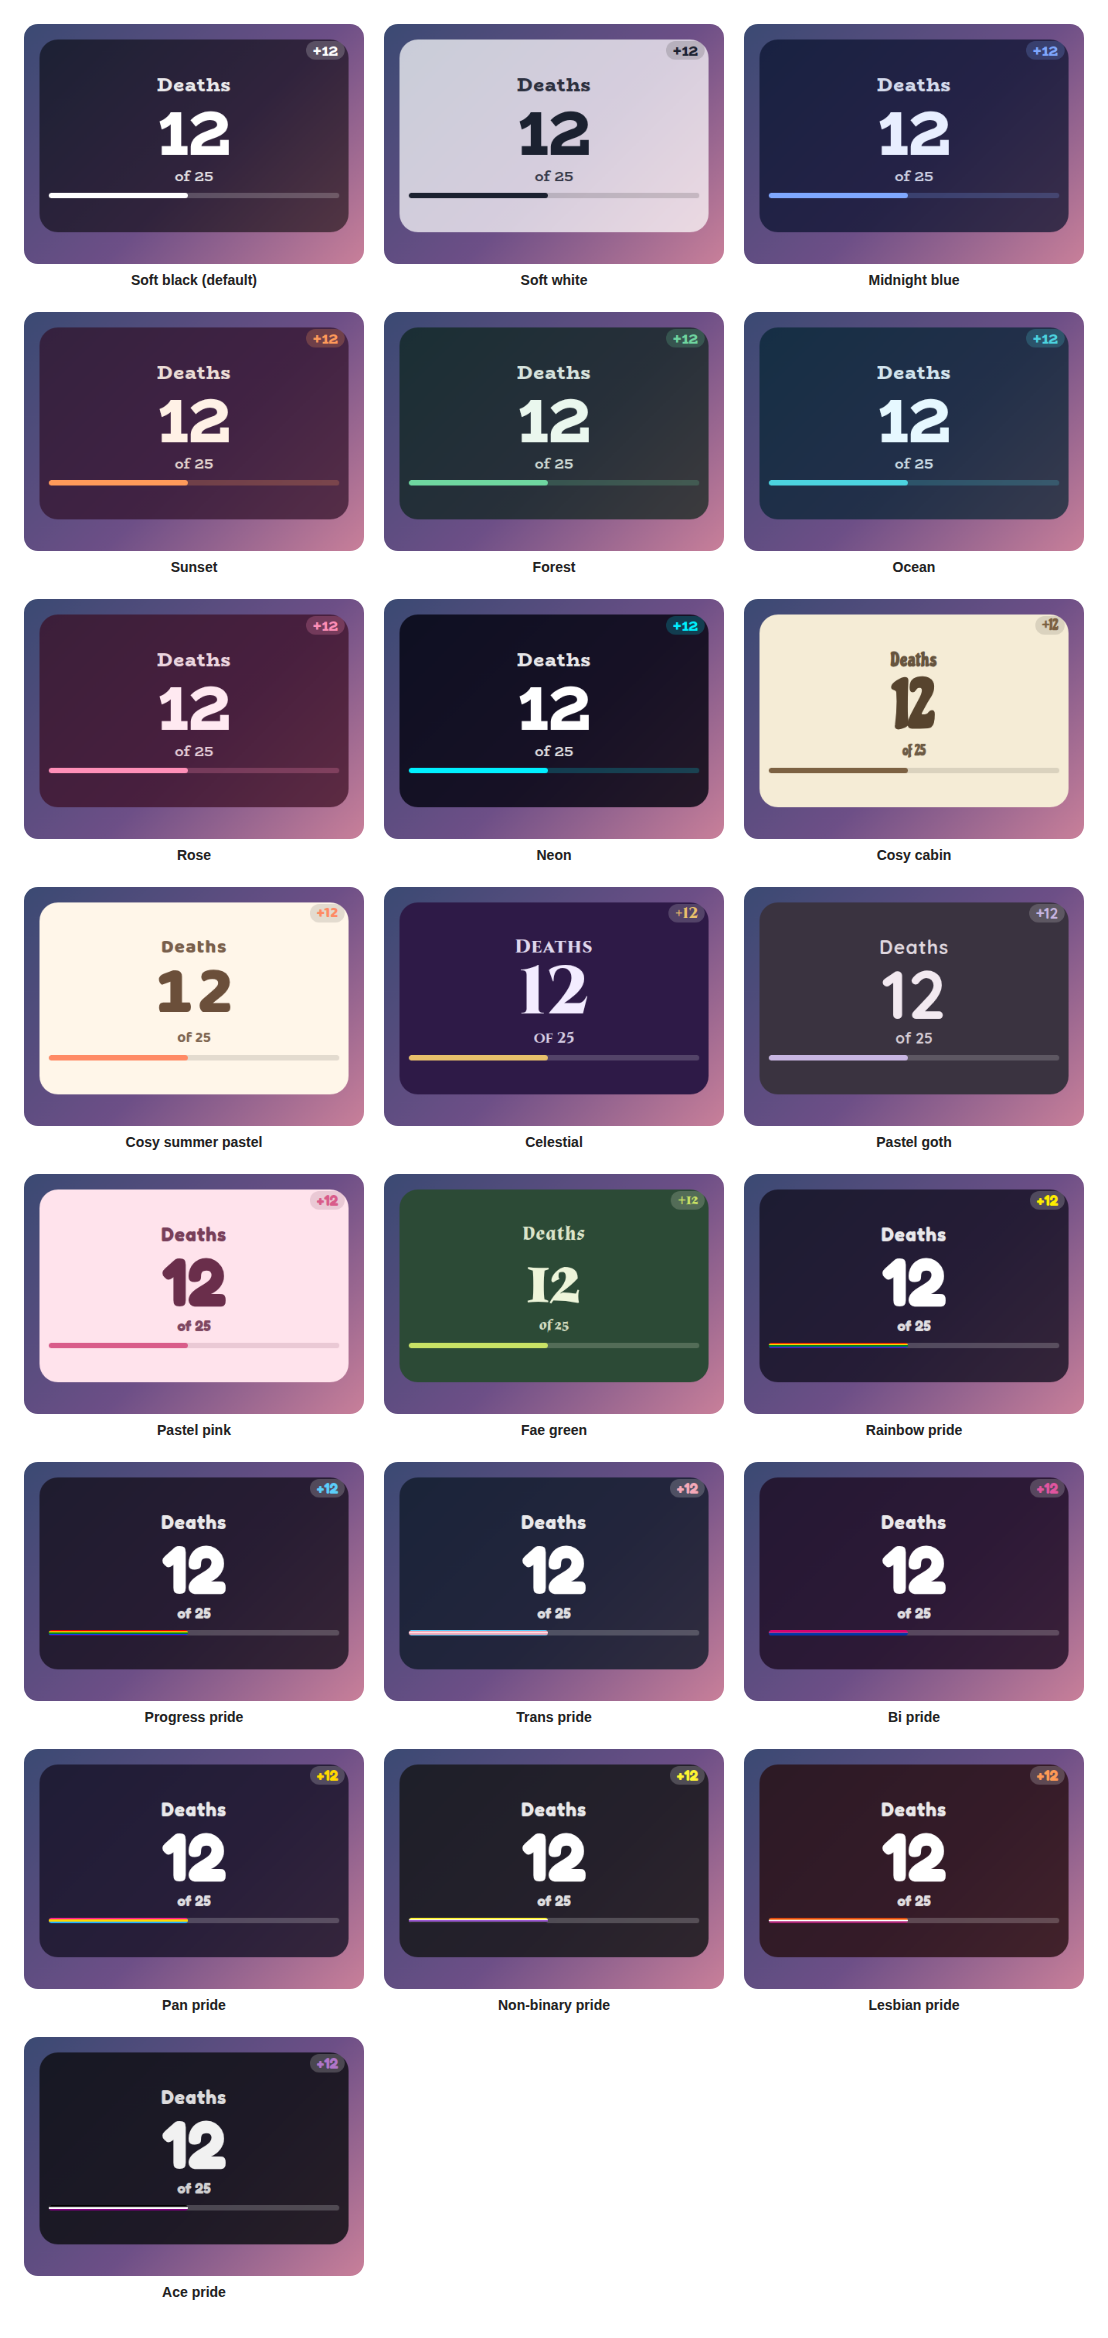
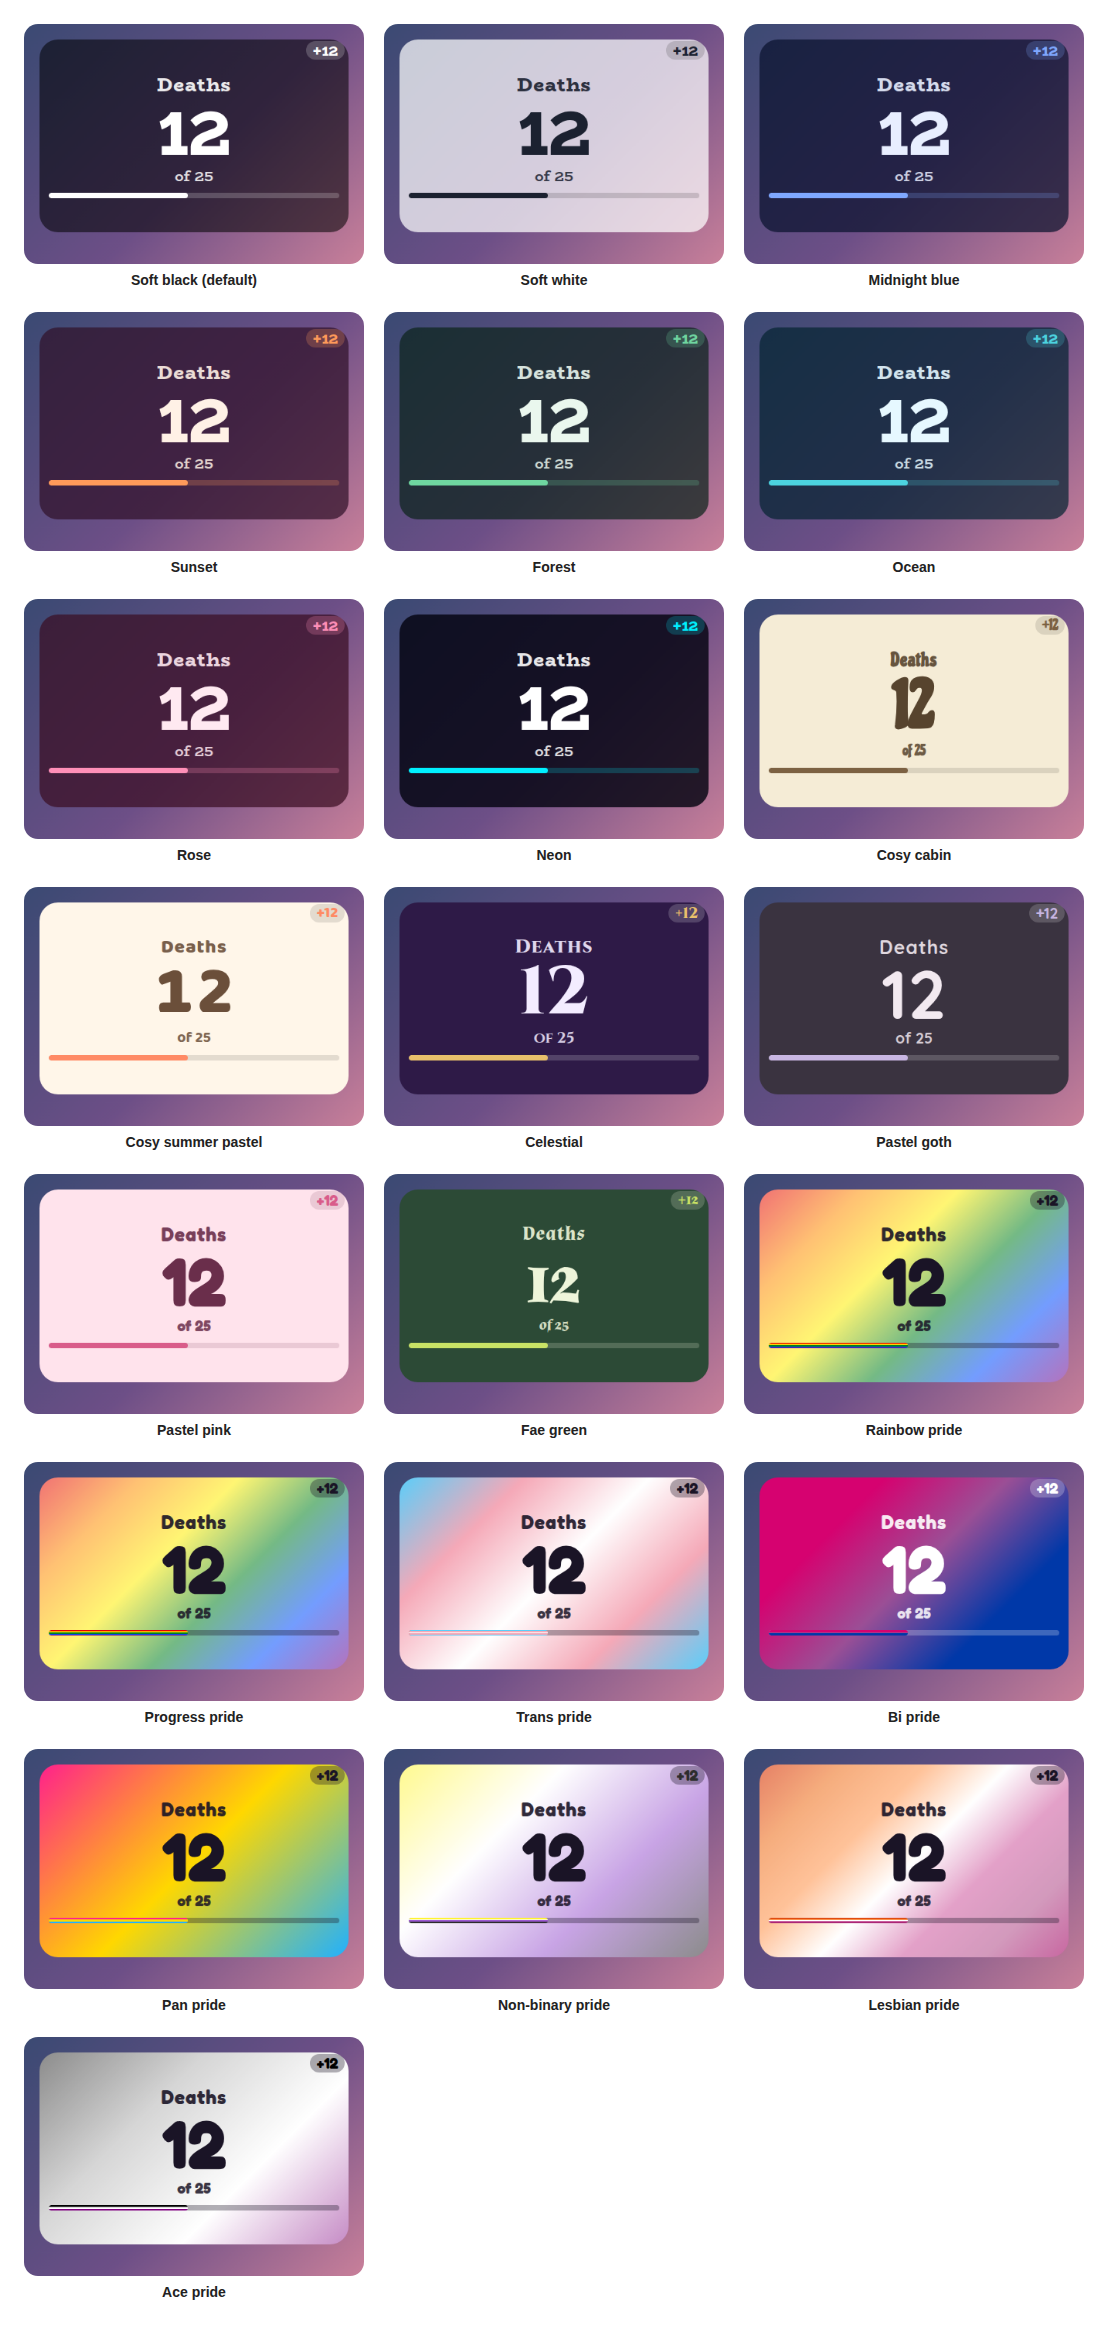
Give the pride presets flag-coloured panels
The pride presets used to be a dark card with only a thin striped bar, so the flag barely showed and the card did not match the palette. Now the card or panel itself wears the flag, as a soft gradient of its stripes, with the text kept readable.

How strong a wash goes over it is worked out, not guessed: the weakest scrim that keeps the text at a contrast of 4.6 or better against every stripe, in white or dark text as the flag needs. Trans, bi and pan need none, and a flag with a black stripe, such as ace and non-binary, gets a lighter wash. A plain colour stays as the fallback, so nothing that only understands a colour is affected, and every other preset, and Custom, is unchanged. The README gallery shows all twenty-two, and the tests check it.

diff --git a/widget/widget.js b/widget/widget.js
@@ -18,14 +18,14 @@
     pastelgoth: { panel: "#3A3340", text: "#F2E9F0", accent: "#C8B6E2", track: "rgba(255, 255, 255, 0.18)", alarm: "#C96A8E", font: "Quicksand" },
     pastelpink: { panel: "#FFE3EC", text: "#6A2E4B", accent: "#D95C8A", track: "rgba(106, 46, 75, 0.14)", alarm: "#D6456F", font: "Fredoka" },
     faegreen: { panel: "#2C4A36", text: "#EEF5DA", accent: "#C9E265", track: "rgba(238, 245, 218, 0.2)", alarm: "#E0805A", font: "Almendra" },
-    pride: { panel: "rgba(20, 16, 34, 0.8)", text: "#FFFFFF", accent: "#FFEE00", track: "rgba(255, 255, 255, 0.2)", alarm: "#FF5C5C", font: "Fredoka", flag: ["#E50000", "#FF8D00", "#FFEE00", "#028121", "#004CFF", "#770088"] },
-    progress: { panel: "rgba(22, 16, 30, 0.8)", text: "#FFFFFF", accent: "#5BCEFA", track: "rgba(255, 255, 255, 0.2)", alarm: "#FF5C5C", font: "Fredoka", flag: ["#E50000", "#FF8D00", "#FFEE00", "#028121", "#004CFF", "#770088"] },
-    trans: { panel: "rgba(18, 28, 44, 0.82)", text: "#FFFFFF", accent: "#F5A9B8", track: "rgba(255, 255, 255, 0.2)", alarm: "#FF5C5C", font: "Fredoka", flag: ["#5BCEFA", "#F5A9B8", "#FFFFFF", "#F5A9B8", "#5BCEFA"] },
-    bi: { panel: "rgba(30, 14, 36, 0.82)", text: "#FFFFFF", accent: "#E0559F", track: "rgba(255, 255, 255, 0.2)", alarm: "#FF5C5C", font: "Fredoka", flag: ["#D60270", "#D60270", "#9B4F96", "#0038A8", "#0038A8"] },
-    pan: { panel: "rgba(24, 20, 40, 0.82)", text: "#FFFFFF", accent: "#FFD800", track: "rgba(255, 255, 255, 0.2)", alarm: "#FF5C5C", font: "Fredoka", flag: ["#FF218C", "#FFD800", "#21B1FF"] },
-    enby: { panel: "rgba(24, 24, 28, 0.86)", text: "#FFFFFF", accent: "#FFF433", track: "rgba(255, 255, 255, 0.2)", alarm: "#FF5C5C", font: "Fredoka", flag: ["#FFF433", "#FFFFFF", "#9B59D0", "#2D2D2D"] },
-    lesbian: { panel: "rgba(40, 16, 20, 0.82)", text: "#FFFFFF", accent: "#FF9A56", track: "rgba(255, 255, 255, 0.2)", alarm: "#FF5C5C", font: "Fredoka", flag: ["#D52D00", "#EF7627", "#FF9A56", "#FFFFFF", "#D162A4", "#B55690", "#A30262"] },
-    ace: { panel: "rgba(16, 16, 22, 0.86)", text: "#F1F1F1", accent: "#B075C9", track: "rgba(255, 255, 255, 0.2)", alarm: "#FF5C5C", font: "Fredoka", flag: ["#000000", "#A3A3A3", "#FFFFFF", "#800080"] }
+    pride: { panel: "rgba(194, 168, 154, 0.9)", text: "#1A1426", accent: "#1A1426", track: "rgba(26, 20, 38, 0.34)", alarm: "#B3123A", font: "Fredoka", flag: ["#E50000", "#FF8D00", "#FFEE00", "#028121", "#004CFF", "#770088"], bgimg: "linear-gradient(rgba(255, 255, 255, 0.45), rgba(255, 255, 255, 0.45)), linear-gradient(135deg, #E50000, #FF8D00, #FFEE00, #028121, #004CFF, #770088)" },
+    progress: { panel: "rgba(194, 168, 154, 0.9)", text: "#1A1426", accent: "#1A1426", track: "rgba(26, 20, 38, 0.34)", alarm: "#B3123A", font: "Fredoka", flag: ["#E50000", "#FF8D00", "#FFEE00", "#028121", "#004CFF", "#770088"], bgimg: "linear-gradient(rgba(255, 255, 255, 0.45), rgba(255, 255, 255, 0.45)), linear-gradient(135deg, #E50000, #FF8D00, #FFEE00, #028121, #004CFF, #770088)" },
+    trans: { panel: "rgba(185, 201, 225, 0.9)", text: "#1A1426", accent: "#1A1426", track: "rgba(26, 20, 38, 0.34)", alarm: "#B3123A", font: "Fredoka", flag: ["#5BCEFA", "#F5A9B8", "#FFFFFF", "#F5A9B8", "#5BCEFA"], bgimg: "linear-gradient(135deg, #5BCEFA, #F5A9B8, #FFFFFF, #F5A9B8, #5BCEFA)" },
+    bi: { panel: "rgba(117, 39, 142, 0.9)", text: "#FFFFFF", accent: "#FFFFFF", track: "rgba(255, 255, 255, 0.24)", alarm: "#FF6B6B", font: "Fredoka", flag: ["#D60270", "#D60270", "#9B4F96", "#0038A8", "#0038A8"], bgimg: "linear-gradient(135deg, #D60270, #D60270, #9B4F96, #0038A8, #0038A8)" },
+    pan: { panel: "rgba(181, 142, 132, 0.9)", text: "#1A1426", accent: "#1A1426", track: "rgba(26, 20, 38, 0.34)", alarm: "#B3123A", font: "Fredoka", flag: ["#FF218C", "#FFD800", "#21B1FF"], bgimg: "linear-gradient(135deg, #FF218C, #FFD800, #21B1FF)" },
+    enby: { panel: "rgba(212, 202, 192, 0.9)", text: "#1A1426", accent: "#2D2D2D", track: "rgba(26, 20, 38, 0.34)", alarm: "#B3123A", font: "Fredoka", flag: ["#FFF433", "#FFFFFF", "#9B59D0", "#2D2D2D"], bgimg: "linear-gradient(rgba(255, 255, 255, 0.45), rgba(255, 255, 255, 0.45)), linear-gradient(135deg, #FFF433, #FFFFFF, #9B59D0, #2D2D2D)" },
+    lesbian: { panel: "rgba(232, 167, 169, 0.9)", text: "#1A1426", accent: "#1A1426", track: "rgba(26, 20, 38, 0.34)", alarm: "#B3123A", font: "Fredoka", flag: ["#D52D00", "#EF7627", "#FF9A56", "#FFFFFF", "#D162A4", "#B55690", "#A30262"], bgimg: "linear-gradient(rgba(255, 255, 255, 0.40), rgba(255, 255, 255, 0.40)), linear-gradient(135deg, #D52D00, #EF7627, #FF9A56, #FFFFFF, #D162A4, #B55690, #A30262)" },
+    ace: { panel: "rgba(202, 187, 202, 0.9)", text: "#1A1426", accent: "#000000", track: "rgba(26, 20, 38, 0.34)", alarm: "#B3123A", font: "Fredoka", flag: ["#000000", "#A3A3A3", "#FFFFFF", "#800080"], bgimg: "linear-gradient(rgba(255, 255, 255, 0.55), rgba(255, 255, 255, 0.55)), linear-gradient(135deg, #000000, #A3A3A3, #FFFFFF, #800080)" }
   };
 
   // ---- shared by every overlay in this set ----
@@ -117,6 +117,7 @@
     s.setProperty("--w-track", t.track);
     s.setProperty("--w-alarm", t.alarm);
     s.setProperty("--w-flag", t.flag ? flagGradient(t.flag) : t.accent);
+    s.setProperty("--w-bgimg", t.bgimg || "none");
     s.setProperty("--w-font", '"' + t.font + '", Georgia, serif');
     s.setProperty("--w-radius", c.radius + "px");
     s.setProperty("--w-pad", c.pad);

diff --git a/test/mock.js b/test/mock.js
@@ -112,6 +112,8 @@ module.exports = function createEnv(root) {
         if (v["--w-bg"] !== x.panel || v["--w-text"] !== x.text || v["--w-accent"] !== x.accent || String(v["--w-font"]).indexOf('"' + x.font + '"') !== 0) {
           all = false; console.log("    colours differ for " + key + ": " + v["--w-bg"]);
         }
+        // A pride preset puts its flag behind the panel as an image. Every other preset leaves the panel plain.
+        if (v["--w-bgimg"] !== (x.bgimg || "none")) { all = false; console.log("    panel image differs for " + key + ": " + v["--w-bgimg"]); }
         // A pride preset gives bars the stripes of its flag, top to bottom. Every other preset gives them the accent.
         const wantFlag = x.flag ? "linear-gradient(180deg, " + x.flag[0] + " 0% " + (100 / x.flag.length) + "%" : x.accent;
         if (x.flag ? String(v["--w-flag"]).indexOf(wantFlag) !== 0 || String(v["--w-flag"]).split(", ").length !== x.flag.length + 1 : v["--w-flag"] !== wantFlag) {

diff --git a/widget/widget.css b/widget/widget.css
@@ -45,6 +45,7 @@
   font-family: var(--w-font);
   color: var(--w-text);
   background: var(--w-bg);
+  background-image: var(--w-bgimg, none);
   border: var(--w-border);
   border-radius: var(--w-radius);
   box-shadow: var(--w-shadow);

diff --git a/README.md b/README.md
@@ -52,16 +52,16 @@ One setting picks the look. The same twenty-two presets, with the same colours, 
 | Pastel goth | Charcoal and lilac, in Quicksand. |
 | Pastel pink | Soft blush pink with rose, in Fredoka. |
 | Fae green | Mossy green with a firefly lime accent, in Almendra. |
-| Rainbow pride | Dark plum with the six rainbow stripes, in Fredoka. |
-| Progress pride | The six rainbow stripes with the chevron's pink and light blue. |
-| Trans pride | Dark blue with light blue, pink and white. |
-| Bi pride | Dark violet with magenta, purple and blue. |
-| Pan pride | Dark indigo with pink, yellow and light blue. |
-| Non-binary pride | Charcoal with yellow, white, purple and black. |
-| Lesbian pride | Dark wine with the orange to pink stripes. |
-| Ace pride | Near black with grey, white and purple. |
+| Rainbow pride | A soft wash of the six rainbow stripes, in Fredoka. |
+| Progress pride | The same stripes, with the chevron's pink and light blue in the wheel and poll colours. |
+| Trans pride | Light blue, pink and white. |
+| Bi pride | Magenta, purple and blue, with white text. |
+| Pan pride | Pink, yellow and light blue. |
+| Non-binary pride | Yellow, white, purple and black, softened so the text stays readable. |
+| Lesbian pride | The orange to pink stripes. |
+| Ace pride | Black, grey, white and purple, softened so the text stays readable. |
 
-The last eight are pride presets, built from the stripes of the rainbow, progress, trans, bi, pan, non-binary, lesbian and ace flags. A bar is striped like the flag where an overlay has one, and the slices of a wheel and the options of a poll take their colours from the stripes in order. The colours follow each flag's published design, and the progress flag shows its six rainbow stripes, because its chevron is a separate shape.
+The last eight are pride presets, built from the stripes of the rainbow, progress, trans, bi, pan, non-binary, lesbian and ace flags. The card or panel wears the flag as its background, with only as much of a wash over it as the text needs to stay readable, so flags with a black stripe come out softer. A bar is striped like the flag where an overlay has one, and the slices of a wheel and the options of a poll take their colours from the stripes in order. The colours follow each flag's published design, and the progress flag shows its six rainbow stripes, because its chevron is a separate shape.
 
 Choose **Custom** to use the colour pickers and font instead. They are ignored while a preset is chosen.
 
